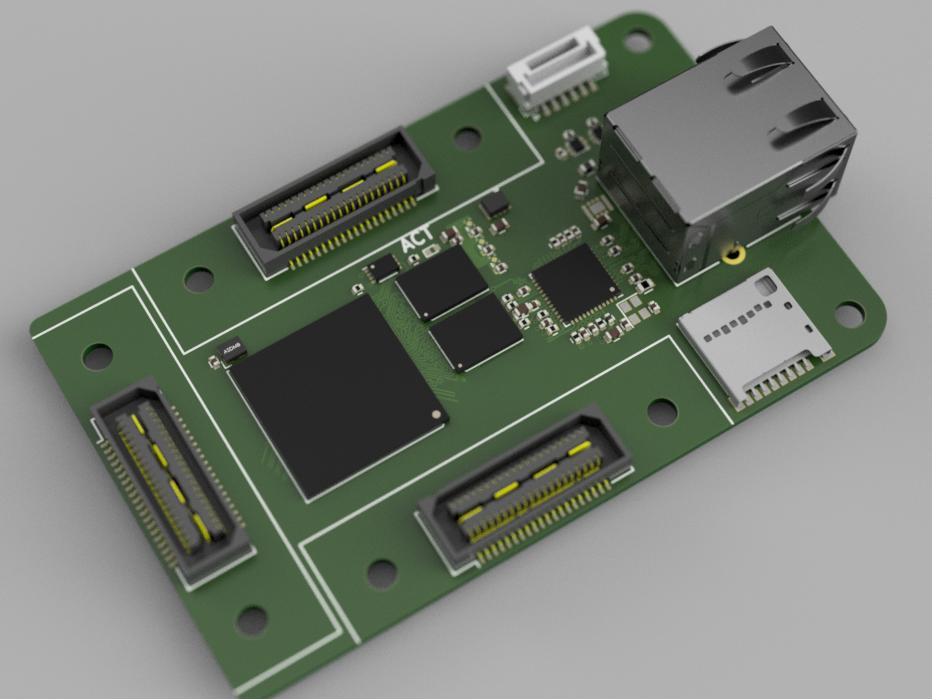
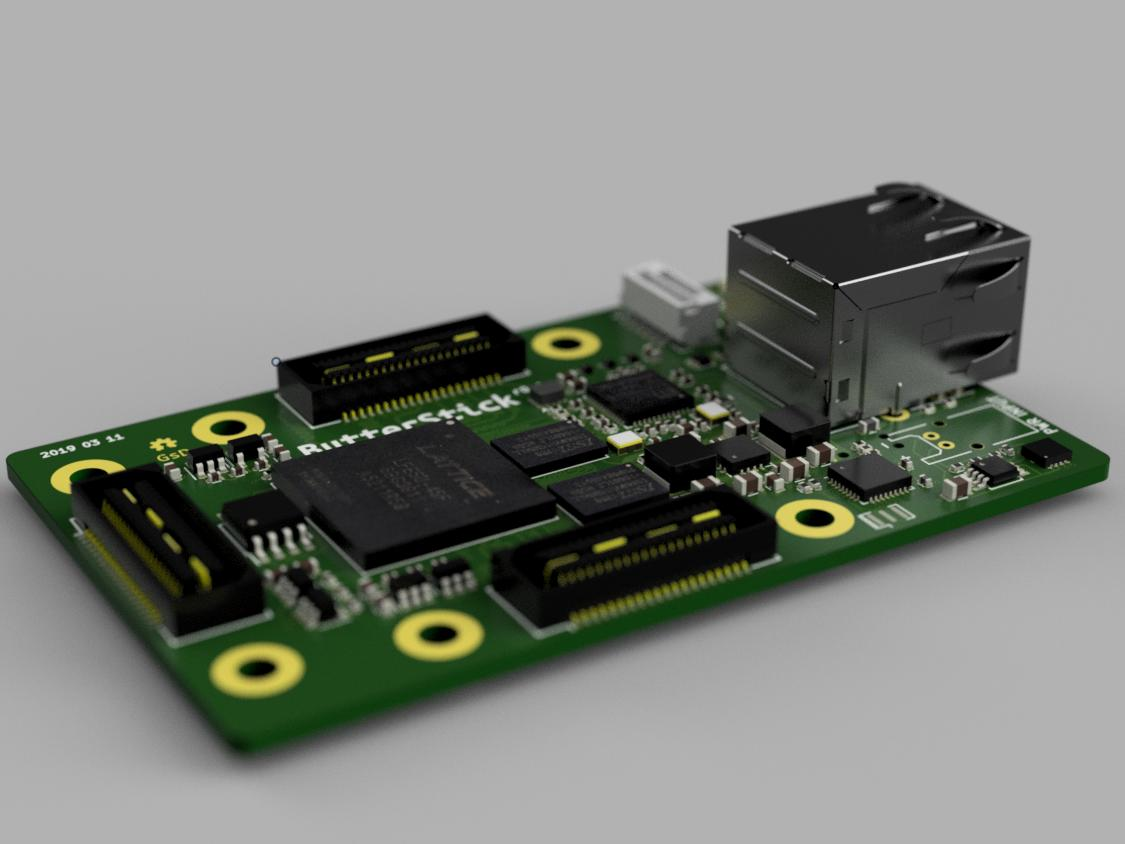
Update Readme

diff --git a/README.md b/README.md
@@ -18,6 +18,11 @@
 * JTAG on GH SM06
 * 1x LED
 * 3x Stardard SYZYGY compatible connectors
+* Power:
+  * 3.3V/3A
+  * 5V/2A  
+  * Adjustable VCCIO 1.2V-3.3V/150mA (per bank)
 
 
-![alt-text](documentation/images/proto_top_layer.png "Layout in progress")
+![alt-text](documentation/images/ButterStick-Front.png "Top Render")
+![alt-text](documentation/images/ButterStick-Back.png "Bot Render")
